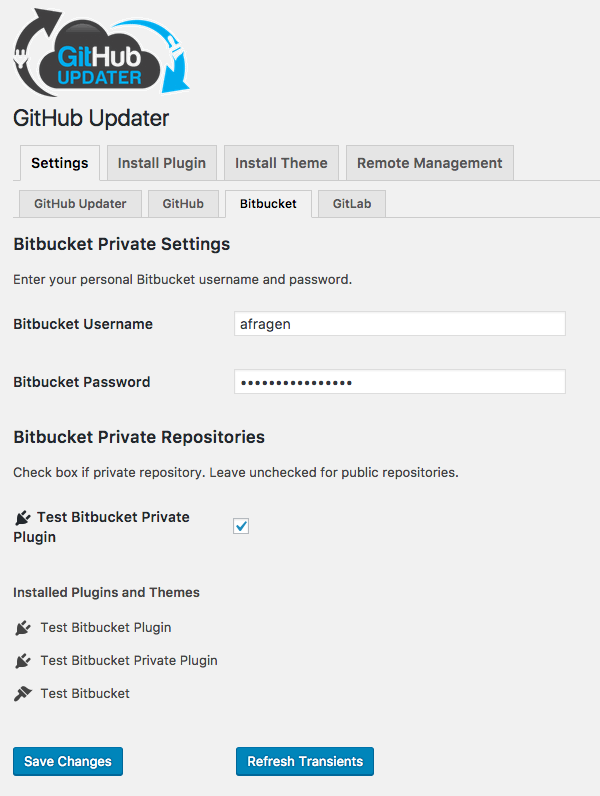
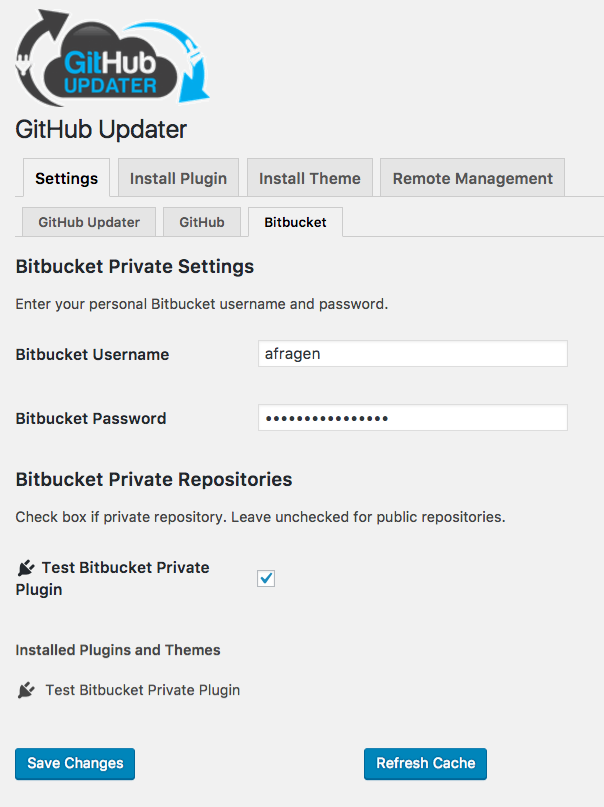
'Refresh Transients' -> 'Refresh Cache'

diff --git a/src/GitHub_Updater/Settings.php b/src/GitHub_Updater/Settings.php
@@ -221,7 +221,7 @@ class Settings extends Base {
 					</div>
 				<?php elseif ( ( isset( $_GET['refresh_transients'] ) && true == $_GET['refresh_transients'] ) ) : ?>
 					<div class="updated">
-						<p><?php esc_html_e( 'Transients refreshed.', 'github-updater' ); ?></p>
+						<p><?php esc_html_e( 'Cache refreshed.', 'github-updater' ); ?></p>
 					</div>
 				<?php endif; ?>
 
@@ -272,7 +272,7 @@ class Settings extends Base {
 					</form>
 					<?php $refresh_transients = add_query_arg( array( 'github_updater_refresh_transients' => true ), $action ); ?>
 					<form class="settings" method="post" action="<?php esc_attr_e( $refresh_transients ); ?>">
-						<?php submit_button( esc_html__( 'Refresh Transients', 'github-updater' ) ); ?>
+						<?php submit_button( esc_html__( 'Refresh Cache', 'github-updater' ) ); ?>
 					</form>
 				<?php endif; ?>
 			<?php endif; ?>

diff --git a/src/GitHub_Updater/Base.php b/src/GitHub_Updater/Base.php
@@ -227,7 +227,7 @@ class Base {
 
 		if ( isset( $_GET['refresh_transients'] ) ) {
 			/**
-			 * Fires later in cycle when Refreshing Transients.
+			 * Fires later in cycle when Refreshing Cache.
 			 *
 			 * @since 6.0.0
 			 */

diff --git a/README.md b/README.md
@@ -264,9 +264,9 @@ From the `GitHub Updater Settings Page` there is a tabbed interface for remote i
 
 ![Remote Install of Plugin Tab](./assets/screenshot-2.png)
 
-## Refreshing Transients
+## Refreshing Cache
 
-Use the **Refresh Transients** button in the `GitHub Updater Settings Page` screen and all the transients will be deleted and the API will be queried again. This may cause timeout issues against the API, especially the GitHub API which only allows 60 unauthenticated calls per hour. Please set a Personal GitHub Access Token to avoid these timeouts.
+Use the **Refresh Cache** button in the `GitHub Updater Settings Page` screen and all the transients will be deleted and the API will be queried again. This may cause timeout issues against the API, especially the GitHub API which only allows 60 unauthenticated calls per hour. Please set a Personal GitHub Access Token to avoid these timeouts.
 
 Be careful about refreshing the browser window after this as you may be continually deleting the transients and hitting the API. 
 

diff --git a/CHANGES.md b/CHANGES.md
@@ -16,6 +16,7 @@
 * refactored `delete_all_transients()` to delete from database, only called in `class Base`
 * refactored _branch switching_ to be consistent among plugins and themes. This means plugins now can rollback to one of the previous 3 tagged releases.
 * fixed `get_repo_slugs()` for initially misnamed repository, ie `github-updater-develop`
+* renamed `Refresh Transients` to `Refresh Cache`, hopefully to provide more clarity
 
 #### 5.6.2 / 2016-09-24
 * added reset of _update\_plugins_ and _update\_themes_ transient with _Refresh Transients_
